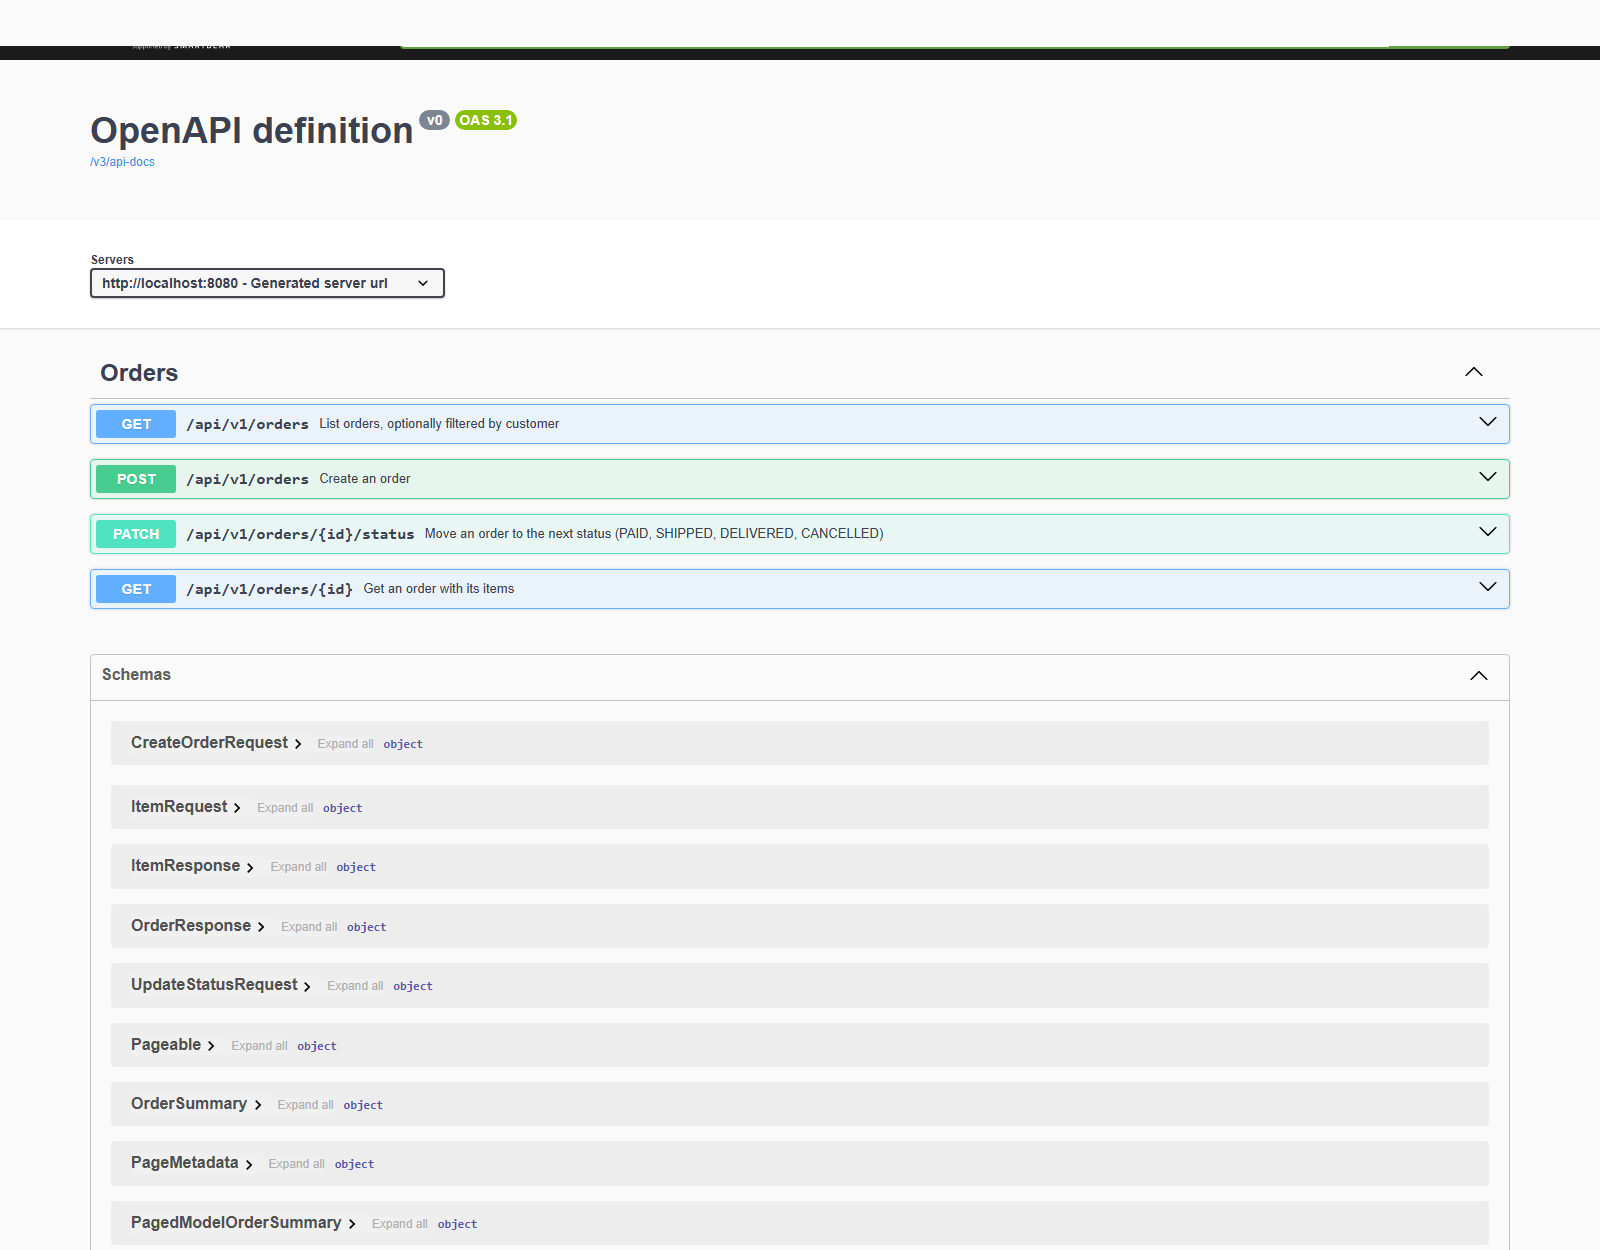
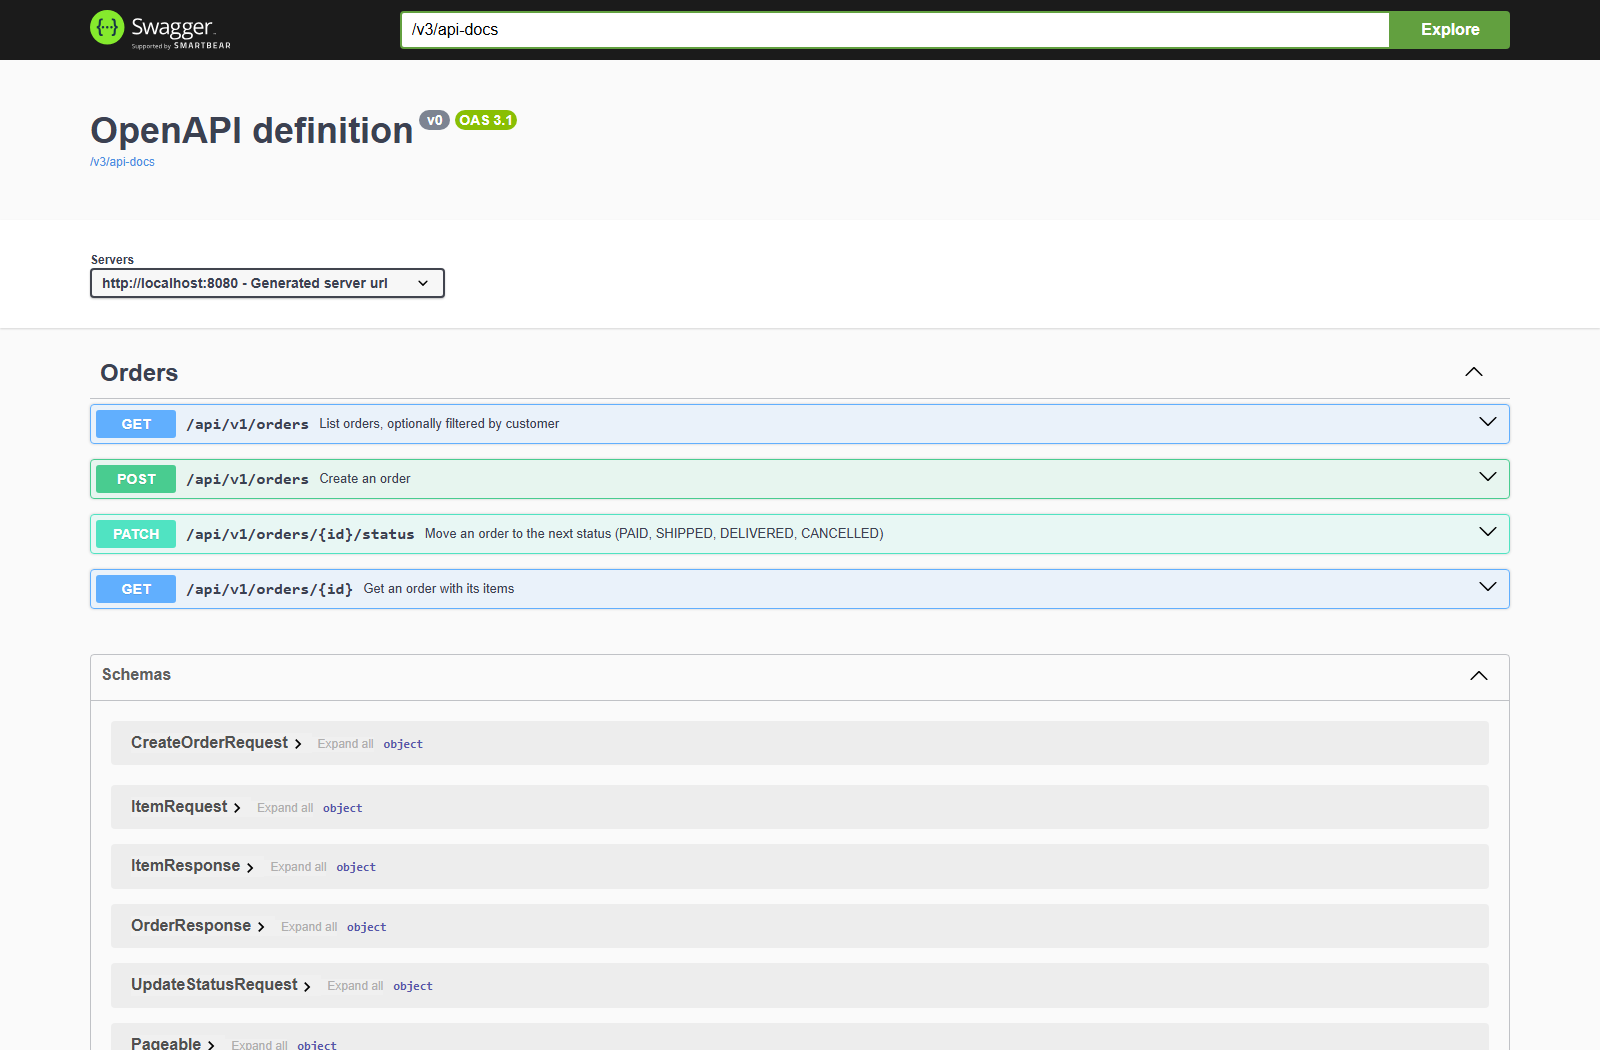
Retake Swagger screenshot, hide traffic-script progress bar, clarify CI caption

diff --git a/README.md b/README.md
@@ -229,7 +229,7 @@ Interactive OpenAPI docs at http://localhost:8080/swagger-ui.html.
 ![Prometheus targets page showing order-service UP](docs/screenshots/prometheus-target-up.png)
 
 ### GitHub Actions – green CI run
-Build, unit tests, Testcontainers integration tests and Docker image on every push, with a test summary on the run page.
+Build, unit tests, Testcontainers integration tests and Docker image on every push; test and JaCoCo coverage reports are kept as artifacts, and a test-results table is added to each run summary.
 
 ![Green GitHub Actions CI run with test summary](docs/screenshots/github-actions-ci-green.png)
 
